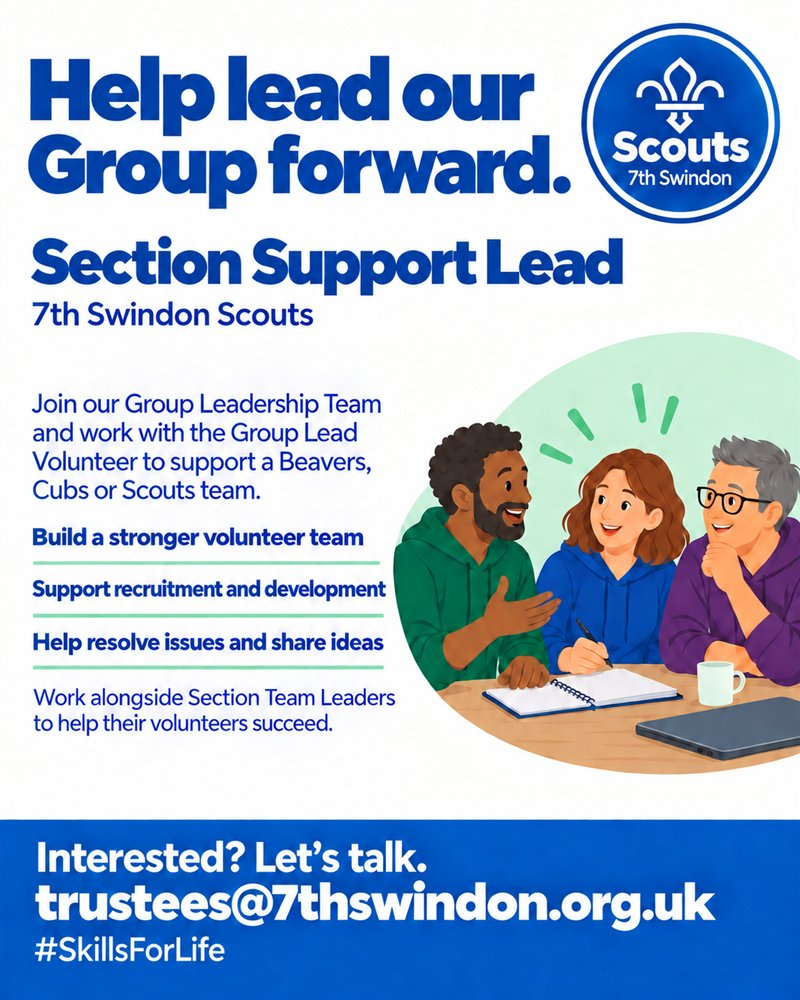
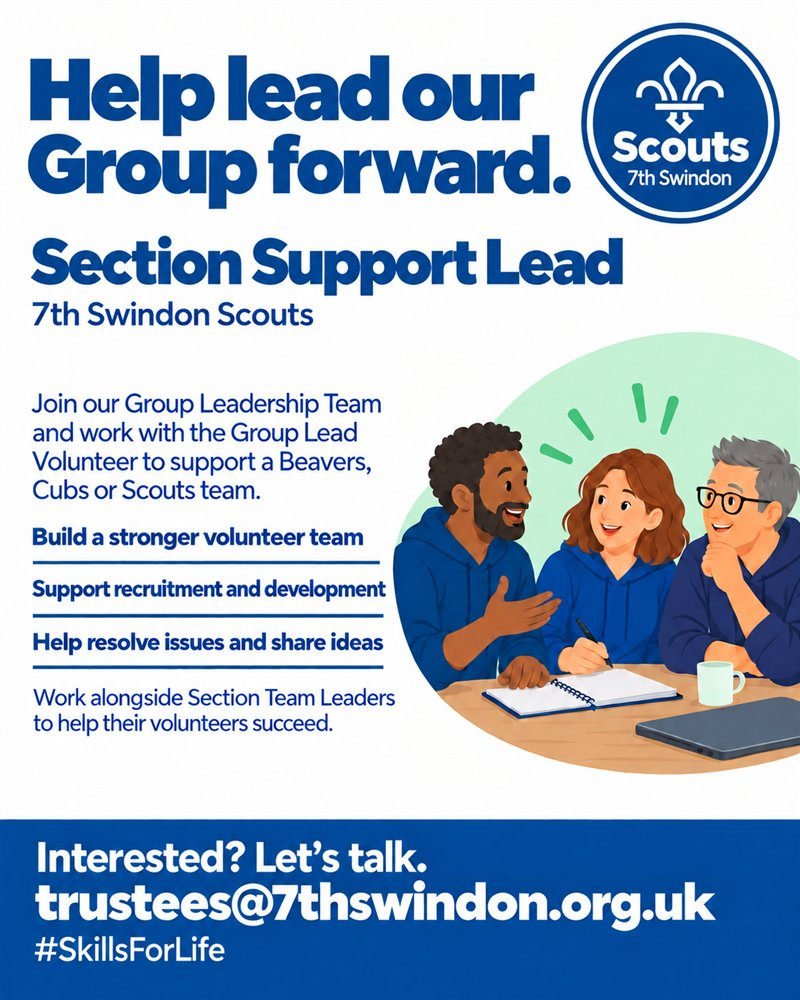
7thswindon-clone: refresh vacancy advert posters to the navy set
Replace the Treasurer, Group Lead Volunteer and Section Support Lead posters
with the updated consistent navy adverts (resized to 800px JPG) and bump their
cache tokens. Fundraising poster unchanged. Mirrored to dist/.

diff --git a/7thswindon-clone/dist/vacancies.html b/7thswindon-clone/dist/vacancies.html
@@ -62,7 +62,7 @@
 
         <div class="vac-roles">
           <article class="vac-role">
-            <div class="vac-shot"><img src="assets/vacancy-glv.jpg?v=20260928" alt="Recruitment poster for the Group Lead Volunteer role at 7th Swindon Scouts: Help others take the lead, together we make adventure happen." width="800" height="1000" loading="lazy"></div>
+            <div class="vac-shot"><img src="assets/vacancy-glv.jpg?v=20260928b" alt="Recruitment poster for the Group Lead Volunteer role at 7th Swindon Scouts: Help others take the lead, together we make adventure happen." width="800" height="1000" loading="lazy"></div>
             <div class="vac-body">
               <h2>Group Lead Volunteer</h2>
               <p>Our most senior volunteer role: set the direction for the Group and empower volunteers to deliver great Scouting, working with our trustees and the District to help the Group thrive.</p>
@@ -70,7 +70,7 @@
             </div>
           </article>
           <article class="vac-role">
-            <div class="vac-shot"><img src="assets/vacancy-section-support-lead.jpg?v=20260928" alt="Recruitment poster for the Section Support Lead role at 7th Swindon Scouts: Help lead our Group forward." width="800" height="1000" loading="lazy"></div>
+            <div class="vac-shot"><img src="assets/vacancy-section-support-lead.jpg?v=20260928b" alt="Recruitment poster for the Section Support Lead role at 7th Swindon Scouts: Help lead our Group forward." width="800" height="1000" loading="lazy"></div>
             <div class="vac-body">
               <h2>Section Support Lead</h2>
               <p>Join our Group Leadership Team and work with the Group Lead Volunteer to support a Beavers, Cubs or Scouts team, helping their volunteers succeed. Three roles are open, one per section.</p>
@@ -78,7 +78,7 @@
             </div>
           </article>
           <article class="vac-role">
-            <div class="vac-shot"><img src="assets/vacancy-treasurer.jpg?v=20260913" alt="Recruitment poster for the Treasurer role at 7th Swindon Scouts: Good with numbers? Help make adventure happen." width="800" height="1000" loading="lazy"></div>
+            <div class="vac-shot"><img src="assets/vacancy-treasurer.jpg?v=20260928b" alt="Recruitment poster for the Treasurer role at 7th Swindon Scouts: Good with numbers? Help make adventure happen." width="800" height="1000" loading="lazy"></div>
             <div class="vac-body">
               <h2>Treasurer</h2>
               <p>Look after the Group's finances: budgets, accounts, subscriptions and Gift Aid. Ideal if you enjoy keeping things organised, with a full handover and support provided.</p>

diff --git a/7thswindon-clone/vacancies.html b/7thswindon-clone/vacancies.html
@@ -62,7 +62,7 @@
 
         <div class="vac-roles">
           <article class="vac-role">
-            <div class="vac-shot"><img src="assets/vacancy-glv.jpg?v=20260928" alt="Recruitment poster for the Group Lead Volunteer role at 7th Swindon Scouts: Help others take the lead, together we make adventure happen." width="800" height="1000" loading="lazy"></div>
+            <div class="vac-shot"><img src="assets/vacancy-glv.jpg?v=20260928b" alt="Recruitment poster for the Group Lead Volunteer role at 7th Swindon Scouts: Help others take the lead, together we make adventure happen." width="800" height="1000" loading="lazy"></div>
             <div class="vac-body">
               <h2>Group Lead Volunteer</h2>
               <p>Our most senior volunteer role: set the direction for the Group and empower volunteers to deliver great Scouting, working with our trustees and the District to help the Group thrive.</p>
@@ -70,7 +70,7 @@
             </div>
           </article>
           <article class="vac-role">
-            <div class="vac-shot"><img src="assets/vacancy-section-support-lead.jpg?v=20260928" alt="Recruitment poster for the Section Support Lead role at 7th Swindon Scouts: Help lead our Group forward." width="800" height="1000" loading="lazy"></div>
+            <div class="vac-shot"><img src="assets/vacancy-section-support-lead.jpg?v=20260928b" alt="Recruitment poster for the Section Support Lead role at 7th Swindon Scouts: Help lead our Group forward." width="800" height="1000" loading="lazy"></div>
             <div class="vac-body">
               <h2>Section Support Lead</h2>
               <p>Join our Group Leadership Team and work with the Group Lead Volunteer to support a Beavers, Cubs or Scouts team, helping their volunteers succeed. Three roles are open, one per section.</p>
@@ -78,7 +78,7 @@
             </div>
           </article>
           <article class="vac-role">
-            <div class="vac-shot"><img src="assets/vacancy-treasurer.jpg?v=20260913" alt="Recruitment poster for the Treasurer role at 7th Swindon Scouts: Good with numbers? Help make adventure happen." width="800" height="1000" loading="lazy"></div>
+            <div class="vac-shot"><img src="assets/vacancy-treasurer.jpg?v=20260928b" alt="Recruitment poster for the Treasurer role at 7th Swindon Scouts: Good with numbers? Help make adventure happen." width="800" height="1000" loading="lazy"></div>
             <div class="vac-body">
               <h2>Treasurer</h2>
               <p>Look after the Group's finances: budgets, accounts, subscriptions and Gift Aid. Ideal if you enjoy keeping things organised, with a full handover and support provided.</p>
